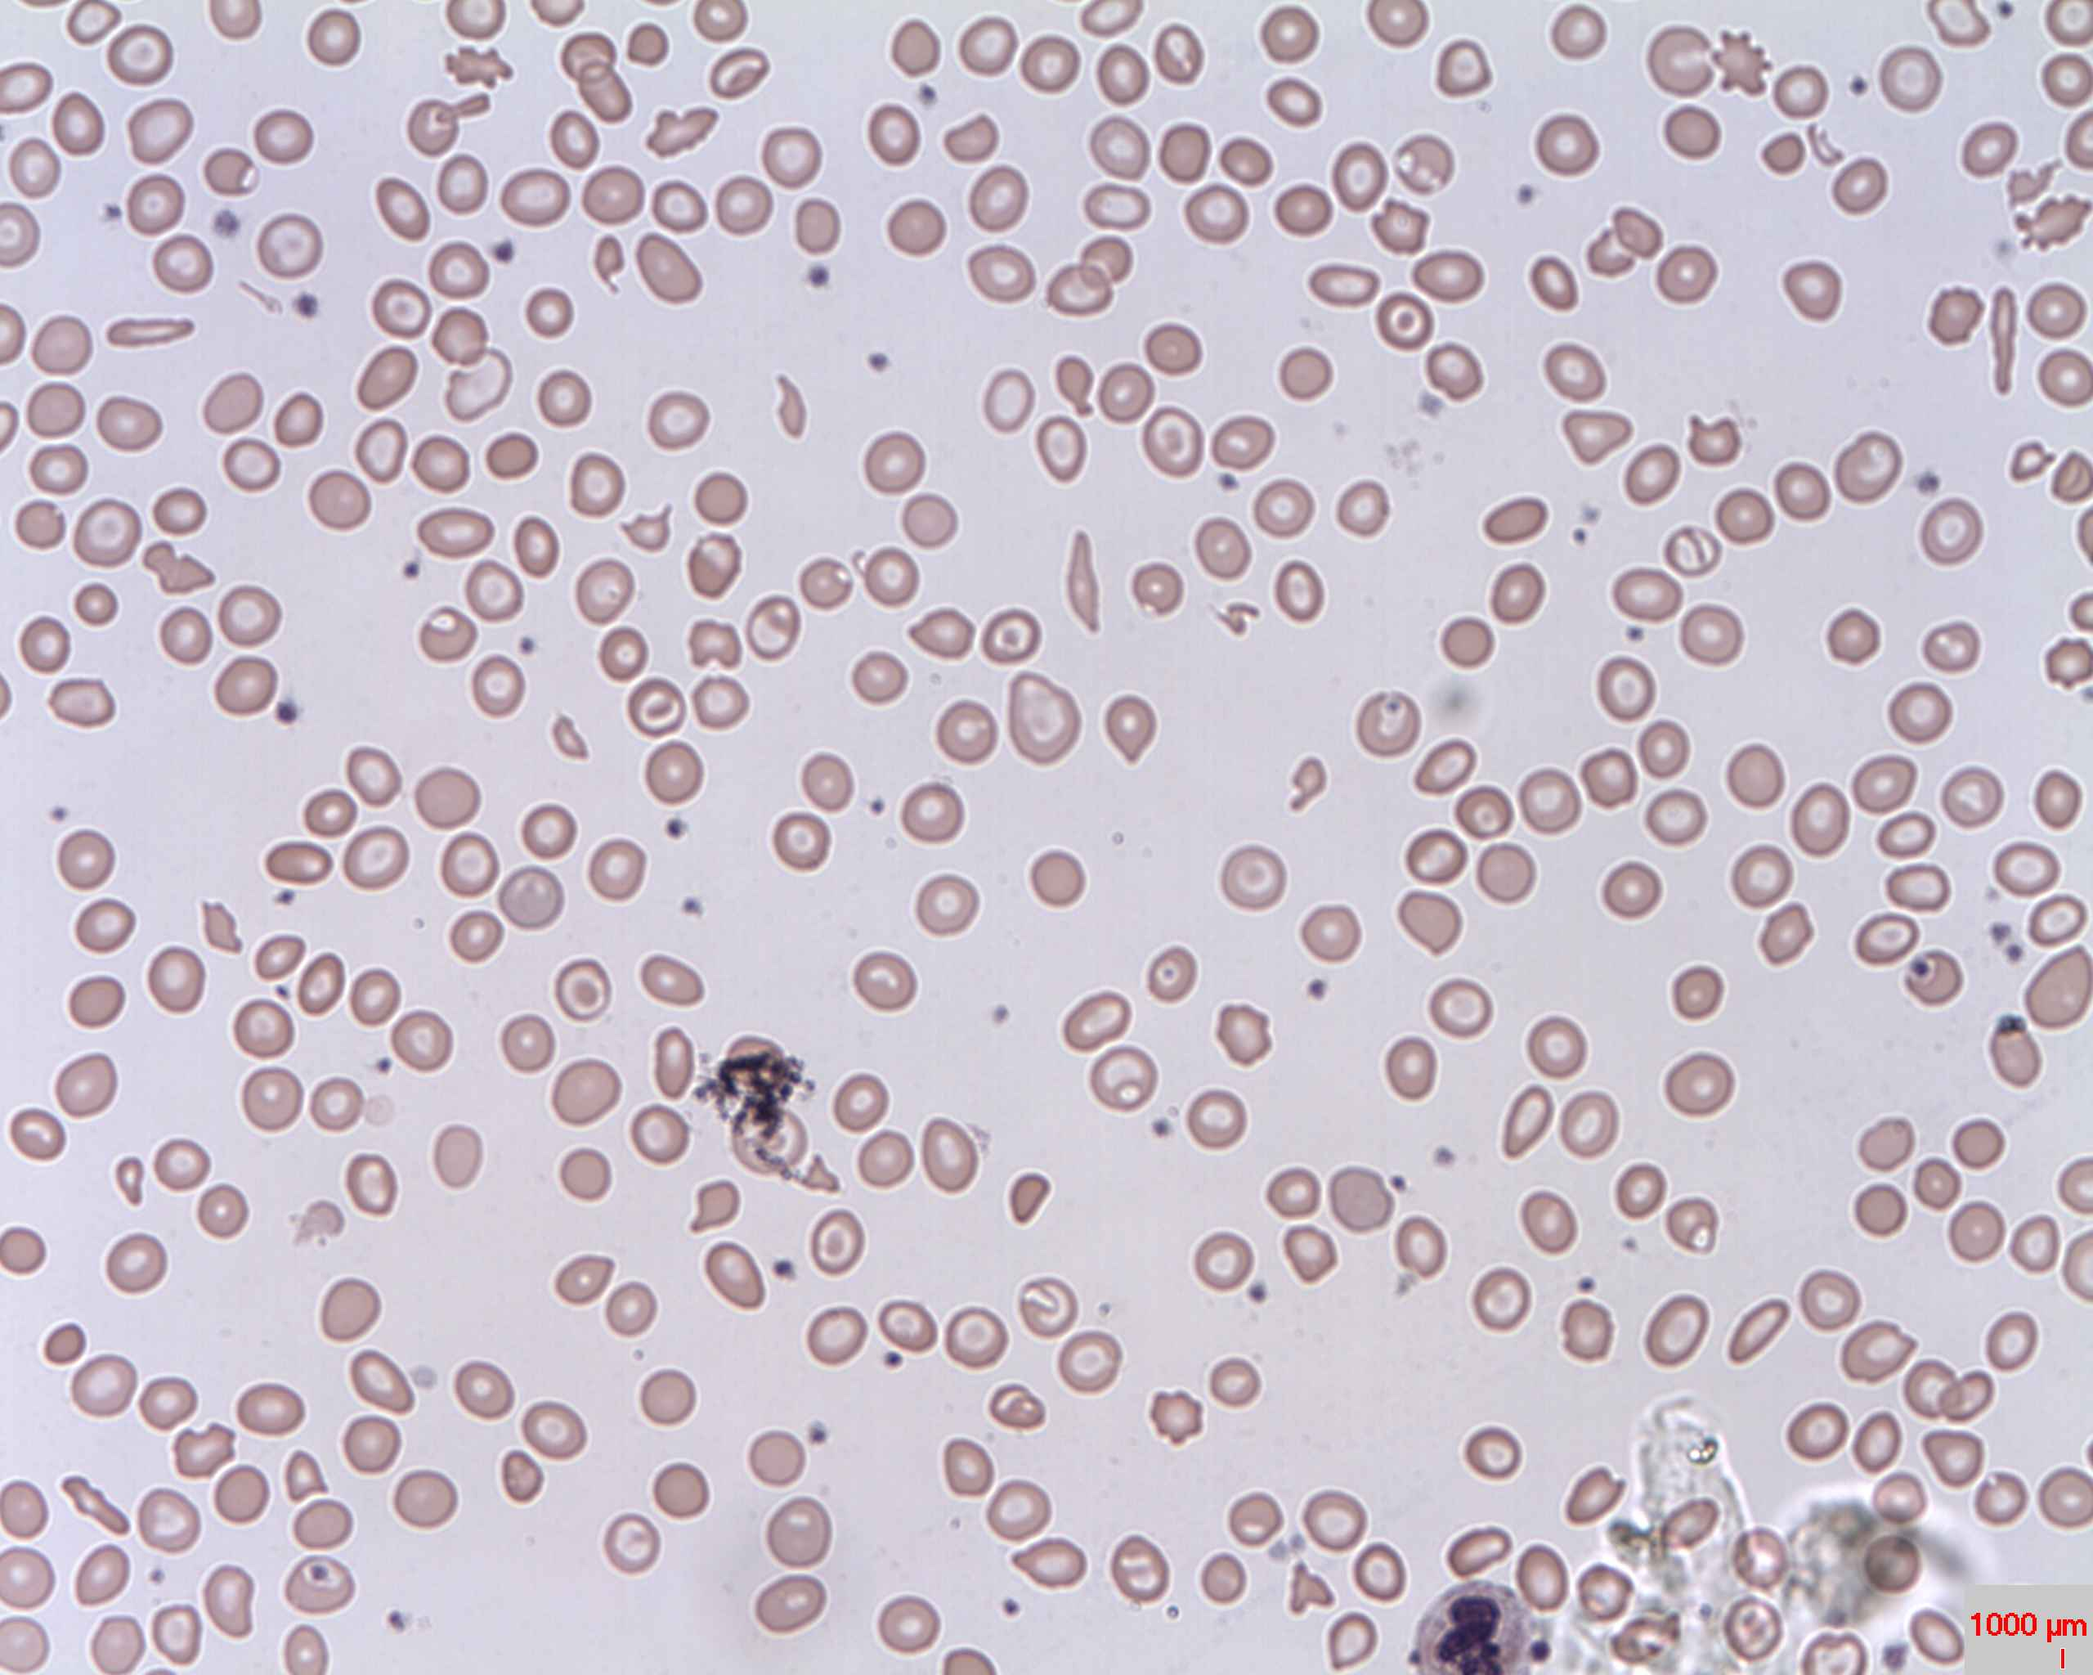
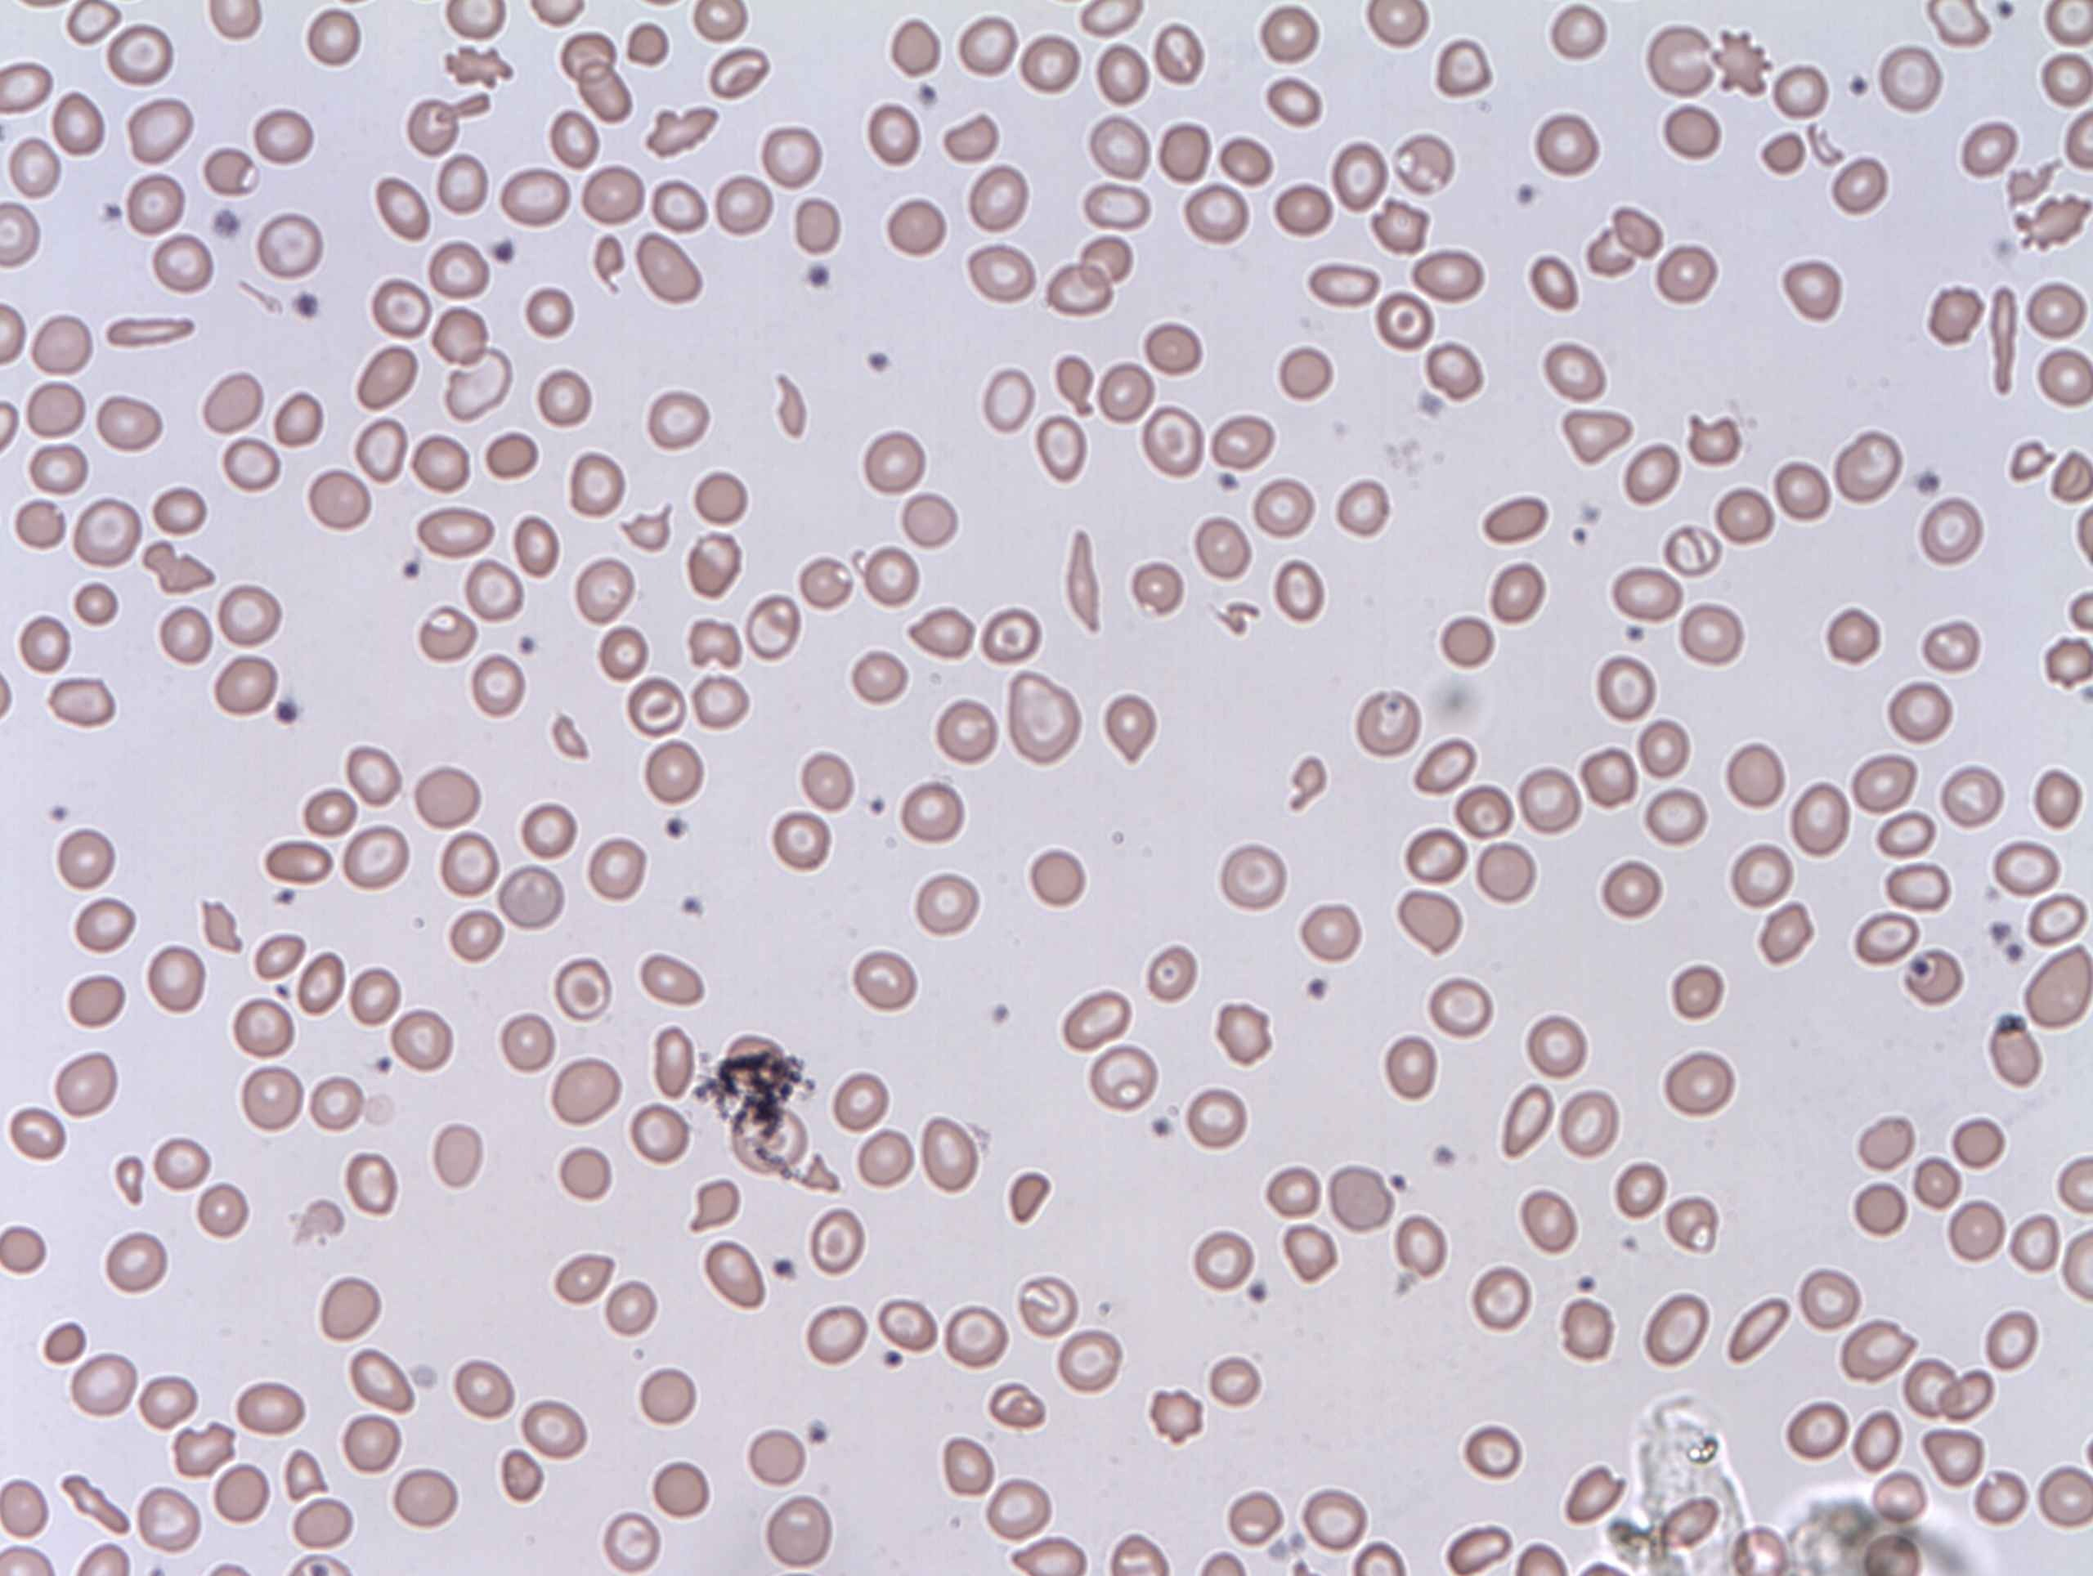
Fix content and credits: Paramecium name, compact-bone licence, target-cells scale bar, credits doc

diff --git a/src/data/scientificData.ts b/src/data/scientificData.ts
@@ -549,7 +549,7 @@ export const specimens: ScientificSpecimen[] = [
     id: 'paramecium', department: 'microbiology', kind: 'paramecium',
     title: { en: 'Paramecium', ar: 'البراميسيوم' },
     subtitle: { en: 'Ciliate protist · optical micrograph', ar: 'كائن هدبي وحيد الخلية · صورة بالمجهر الضوئي' },
-    description: { en: 'An optical photomicrograph of Paramecium aurelia. The whole cell and its internal vacuoles are visible.', ar: 'صورة مجهرية للبراميسيوم تُظهر الخلية كاملةً وبعض الفجوات بداخلها.' },
+    description: { en: 'An optical photomicrograph of a Paramecium (Paramecium sp.). The whole cell and its internal vacuoles are visible.', ar: 'صورة مجهرية للبراميسيوم تُظهر الخلية كاملةً وبعض الفجوات بداخلها.' },
     facts: [
       { en: 'Paramecium moves by beating rows of tiny cilia along its surface.', ar: 'يتحرك البراميسيوم بمساعدة أهداب دقيقة تغطي سطحه.' },
       { en: 'Look for the oval outline and round vacuoles. The blurred edge can result from the cilia moving during capture.', ar: 'لاحظ الشكل البيضاوي والفجوات الدائرية. قد تبدو الحافة غير واضحة بسبب حركة الأهداب وقت التصوير.' },
@@ -624,12 +624,12 @@ export const specimens: ScientificSpecimen[] = [
   },
   {
     id: 'compact-bone', department: 'histology', kind: 'bone',
-    title: { en: 'Compact bone · ground section', ar: 'عظم كثيف · مقطع مصقول' },
-    subtitle: { en: 'Unlabelled photomicrograph · 40× source', ar: 'صورة مجهرية بلا تسميات · تكبير أصلي ٤٠×' },
-    description: { en: 'The unlabelled field from a compact-bone ground section, cropped from a paired teaching image.', ar: 'مجال غير مُسمّى من مقطع مصقول لعظم كثيف، قُصّ من صورة تعليمية تضم مجالين.' },
+    title: { en: 'Compact bone · cross-section', ar: 'عظم كثيف · مقطع عرضي' },
+    subtitle: { en: 'Bright-field photomicrograph · 40× source', ar: 'صورة مجهرية بالحقل الساطع · تكبير أصلي ٤٠×' },
+    description: { en: 'A bright-field photomicrograph of a human compact-bone cross-section.', ar: 'صورة مجهرية بالحقل الساطع لمقطع عرضي في عظم بشري كثيف.' },
     facts: [
       { en: 'Look for osteons: concentric rings around central canals in compact bone.', ar: 'ابحث عن الأوستيونات: حلقات متحدة المركز حول قنوات مركزية في العظم الكثيف.' },
-      { en: 'Small spaces called lacunae house osteocytes; fine canaliculi connect the spaces.', ar: 'تحتوي فجوات صغيرة تُسمّى الجُوَيبات على الخلايا العظمية، وتصل بينها قنيّات دقيقة.' },
+      { en: 'The scale bar in the photo marks 1 mm. At this low power you see osteons and their canals; lacunae and canaliculi need a higher magnification.', ar: 'شريط المقياس في الصورة يمثل ١ مم. عند هذا التكبير المنخفض تظهر الأوستيونات وقنواتها؛ أما الجُوَيبات والقنيّات الدقيقة فتحتاج تكبيرًا أعلى.' },
     ],
     references: [...references.animalTissues],
   },

diff --git a/src/data/specimenMedia.ts b/src/data/specimenMedia.ts
@@ -22,6 +22,7 @@ export const specimenMedia: Record<string, SpecimenMedia> = {
   'target-cells': {
     src: '/specimens/target-cells.jpg', title: 'Target cells.jpg', author: 'Prof. Osaro Erhabor', license: 'CC0',
     sourceUrl: 'https://commons.wikimedia.org/wiki/File:Target_cells.jpg',
+    adaptation: 'Cropped to remove the source scale annotation, which was mislabelled.',
   },
   'eosinophil-smear': {
     src: '/specimens/eosinophil-smear.jpg', title: 'Eosinophil blood smear.JPG', author: 'Bobjgalindo', license: 'CC BY-SA 4.0',
@@ -58,12 +59,12 @@ export const specimenMedia: Record<string, SpecimenMedia> = {
   'pond-water': {
     src: '/specimens/pond-water.jpg', title: 'Pond Water Under the Microscope.jpg', author: 'syed sajidul islam', license: 'CC BY 4.0',
     sourceUrl: 'https://commons.wikimedia.org/wiki/File:Pond_Water_Under_the_Microscope.jpg',
-    adaptation: 'Cropped to the circular microscope field; the surrounding black frame is removed.',
+    adaptation: 'Cropped to the original eyepiece field; part of the dark microscope frame remains visible.',
   },
   'dicot-leaf': {
     src: '/specimens/lemon-leaf-cross-section.jpg', title: 'Limonero-al-microscopio2.jpg', author: 'Luke29', license: 'CC BY-SA 4.0',
     sourceUrl: 'https://commons.wikimedia.org/wiki/File:Limonero-al-microscopio2.jpg',
-    adaptation: 'Cropped to the circular microscope field; the surrounding black frame is removed.',
+    adaptation: 'Cropped to the original eyepiece field; part of the dark microscope frame remains visible.',
   },
   'leaf-stomata': {
     src: '/specimens/leaf-stomata.jpg', title: 'Leaf epithelium, stomata and guard cells.jpg', author: 'Emilio Ermini', license: 'CC BY 4.0',
@@ -108,9 +109,9 @@ export const specimenMedia: Record<string, SpecimenMedia> = {
     sourceUrl: 'https://commons.wikimedia.org/wiki/File:Sporangium_(255_33)_Male_fern_(Dryopteris_filix-mas);_total_preparation.jpg',
   },
   'compact-bone': {
-    src: '/specimens/compact-bone.png', title: 'Compact bone 093B.png', author: 'RWhitwam', license: 'CC BY-SA 4.0',
-    sourceUrl: 'https://commons.wikimedia.org/wiki/File:Compact_bone_093B.png',
-    adaptation: 'Cropped to retain the unlabelled field and remove the labelled comparison panel.',
+    src: '/specimens/compact-bone.jpg', title: 'Bone (247 29A) Human bone cross-section.jpg', author: 'Josef Reischig (archive, shared by heirs)', license: 'CC BY-SA 3.0',
+    sourceUrl: 'https://commons.wikimedia.org/wiki/File:Bone_(247_29A)_Human_bone_cross-section.jpg',
+    adaptation: 'Downscaled for web display; bright-field photomicrograph of a human bone cross-section.',
   },
   fibrocartilage: {
     src: '/specimens/fibrocartilage.jpg', title: 'Microscopic Image of Mammal Fibrocartilage Tissue.jpg', author: 'Magda Yurchishin', license: 'CC BY 4.0',

diff --git a/docs/specimen-photo-credits.md b/docs/specimen-photo-credits.md
@@ -17,14 +17,14 @@ The landing page also uses a locally bundled microscope photograph by Abdsomod, 
 | Leaf stomata | Leaf epithelium, stomata and guard cells.jpg | Emilio Ermini | [CC BY 4.0](https://creativecommons.org/licenses/by/4.0/) | [Wikimedia Commons](https://commons.wikimedia.org/wiki/File:Leaf_epithelium,_stomata_and_guard_cells.jpg) |
 | Onion root-tip mitosis | Onion Root Mitosis.jpg | Johnathan Gutierrez | [CC BY-SA 4.0](https://creativecommons.org/licenses/by-sa/4.0/) | [Wikimedia Commons](https://commons.wikimedia.org/wiki/File:Onion_Root_Mitosis.jpg) |
 | Pollen grains | Pollen - Dark-field microscopy.jpg | Juan Carlos Fonseca Mata | [CC BY-SA 4.0](https://creativecommons.org/licenses/by-sa/4.0/) | [Wikimedia Commons](https://commons.wikimedia.org/wiki/File:Pollen_-_Dark-field_microscopy.jpg) |
-| Paramecium aurelia | Paramecium.jpg | Barfooz | [CC BY-SA 3.0](https://creativecommons.org/licenses/by-sa/3.0/) | [Wikimedia Commons](https://commons.wikimedia.org/wiki/File:Paramecium.jpg) |
+| Paramecium sp. | Paramecium.jpg | Barfooz | [CC BY-SA 3.0](https://creativecommons.org/licenses/by-sa/3.0/) | [Wikimedia Commons](https://commons.wikimedia.org/wiki/File:Paramecium.jpg) |
 | Euglena | Euglena sp (26 2 95).jpg | Josef Reischig archive, shared by the creator's heirs | [CC BY-SA 3.0](https://creativecommons.org/licenses/by-sa/3.0/) | [Wikimedia Commons](https://commons.wikimedia.org/wiki/File:Euglena_sp_(26_2_95).jpg) |
 | Water flea (Daphnia) | Daphnia micrograph. Red x40.jpg | Kamil Kulawik | [CC BY 4.0](https://creativecommons.org/licenses/by/4.0/) | [Wikimedia Commons](https://commons.wikimedia.org/wiki/File:Daphnia_micrograph._Red_x40.jpg) |
 | Hydra vulgaris section | Hydra vulgaris micrograph x100.jpg | Kamil Kulawik | [CC BY 4.0](https://creativecommons.org/licenses/by/4.0/) | [Wikimedia Commons](https://commons.wikimedia.org/wiki/File:Hydra_vulgaris_micrograph_x100.jpg) |
 | Diatoms from McMurdo Sound | Diatoms through the microscope.jpg | Prof. Gordon T. Taylor · NOAA Corps Collection | Public domain (US NOAA) | [Wikimedia Commons](https://commons.wikimedia.org/wiki/File:Diatoms_through_the_microscope.jpg) |
 | Spirogyra filament | Spirogyra Under Light Microscope 40 X Mag.jpg | Iceclanl | [CC BY-SA 3.0](https://creativecommons.org/licenses/by-sa/3.0/) | [Wikimedia Commons](https://commons.wikimedia.org/wiki/File:Spirogyra_Under_Light_Microscope_40_X_Mag.jpg) |
 | Male fern sporangium | Sporangium (255 33) Male fern (Dryopteris filix-mas); total preparation.jpg | Josef Reischig archive, shared by the creator's heirs | [CC BY-SA 3.0](https://creativecommons.org/licenses/by-sa/3.0/) | [Wikimedia Commons](https://commons.wikimedia.org/wiki/File:Sporangium_(255_33)_Male_fern_(Dryopteris_filix-mas);_total_preparation.jpg) |
-| Compact bone, unlabelled field | Compact bone 093B.png | RWhitwam | [CC BY-SA 4.0](https://creativecommons.org/licenses/by-sa/4.0/) | [Wikimedia Commons](https://commons.wikimedia.org/wiki/File:Compact_bone_093B.png) |
+| Compact bone, human cross-section (bright field, 40x) | Bone (247 29A) Human bone cross-section.jpg | Josef Reischig archive, shared by the creator's heirs | [CC BY-SA 3.0](https://creativecommons.org/licenses/by-sa/3.0/) | [Wikimedia Commons](https://commons.wikimedia.org/wiki/File:Bone_(247_29A)_Human_bone_cross-section.jpg) |
 | Mammalian fibrocartilage | Microscopic Image of Mammal Fibrocartilage Tissue.jpg | Magda Yurchishin | [CC BY 4.0](https://creativecommons.org/licenses/by/4.0/) | [Wikimedia Commons](https://commons.wikimedia.org/wiki/File:Microscopic_Image_of_Mammal_Fibrocartilage_Tissue.jpg) |
 | Cardiac muscle cross-section | Muscle Tissue Cardiac Muscle (27187637147).jpg | Berkshire Community College Bioscience Image Library | [CC0](https://creativecommons.org/publicdomain/zero/1.0/) | [Wikimedia Commons](https://commons.wikimedia.org/wiki/File:Muscle_Tissue_Cardiac_Muscle_(27187637147).jpg) |
 | Amoeba proteus | Amoeba proteus.jpg | Cymothoa exigua | [CC BY-SA 3.0](https://creativecommons.org/licenses/by-sa/3.0/) | [Wikimedia Commons](https://commons.wikimedia.org/wiki/File:Amoeba_proteus.jpg) |
@@ -42,4 +42,4 @@ The landing page also uses a locally bundled microscope photograph by Abdsomod, 
 | Reticulocytes, supravital stain | Reticulocytes Human Blood Supravital Stain.jpg | Ed Uthman, MD | [CC BY 3.0](https://creativecommons.org/licenses/by/3.0/) | [Wikimedia Commons](https://commons.wikimedia.org/wiki/File:Reticulocytes_Human_Blood_Supravital_Stain.jpg) |
 | P. falciparum gametocyte | Plasmodium falciparum malaria, 1000x.jpg | Department of Pathology, Calicut Medical College | [CC BY-SA 4.0](https://creativecommons.org/licenses/by-sa/4.0/) | [Wikimedia Commons](https://commons.wikimedia.org/wiki/File:Plasmodium_falciparum_malaria,_1000x.jpg) |
 
-The author and license are also shown under each built-in microscope view. The source image file itself is linked there for attribution and license details; the specimen is displayed from the local bundle and does not require an external page to load. The blood-smear capture removes browser margins; the pond-water and lemon-leaf images show crops from the original eyepiece fields. Among the earlier additions, the Daphnia scale annotation was cropped, the Spirogyra scale and embedded caption were cropped, and the compact-bone image retains only its unlabelled panel. The Euglena and fern images keep their original scale bars. The rotifer source describes the identification as probable, which is also stated in the specimen card. Stain choices in the web app apply color filters to the photograph for comparison; they do not alter the bundled source image or reproduce stain chemistry.
+The author and license are also shown under each built-in microscope view. The source image file itself is linked there for attribution and license details; the specimen is displayed from the local bundle and does not require an external page to load. The blood-smear capture removes browser margins; the pond-water and lemon-leaf images are crops of the original eyepiece fields and still show part of the dark microscope frame. Among the earlier additions, the Daphnia scale annotation was cropped, the Spirogyra scale and embedded caption were cropped, the compact-bone image is the source photograph downscaled to 1280 px wide, and the target-cells image is cropped to remove the embedded scale annotation, which was mislabelled in the source. The Euglena and fern images keep their original scale bars. The rotifer source describes the identification as probable, which is also stated in the specimen card. Stain choices in the web app apply color filters to the photograph for comparison; they do not alter the bundled source image or reproduce stain chemistry.
